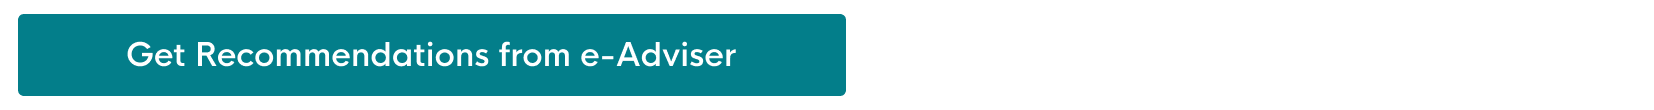
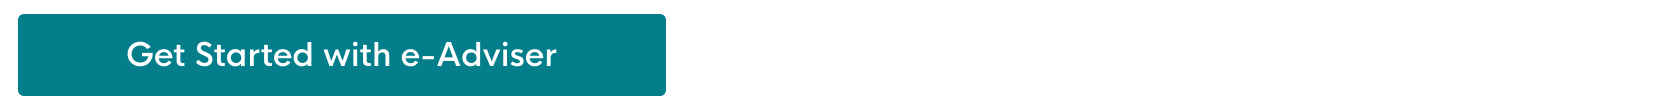
update ga cta button

Changed region(s): [[0.1233, 0.1091, 0.5242, 0.8727]]

diff --git a/_gov-assist/1-overview.md b/_gov-assist/1-overview.md
@@ -19,7 +19,7 @@ Answer a few questions to be guided to the relevant assistance schemes based on 
 
 [![e-Adviser button](/images/gov-assist/ga_cta_button.png)](https://ea-staging.l1t.molb.gov.sg/)
 
-*Note: The e-Adviser will constantly be improved to provide better assistance recommendations. Your inputs help to identify the gaps in available assistances for your selected business needs and company profile.*
+*Note: The e-Adviser will be improved continuously. Do give us your feedback so that we can better help you in the future.*
 
 ***
 
